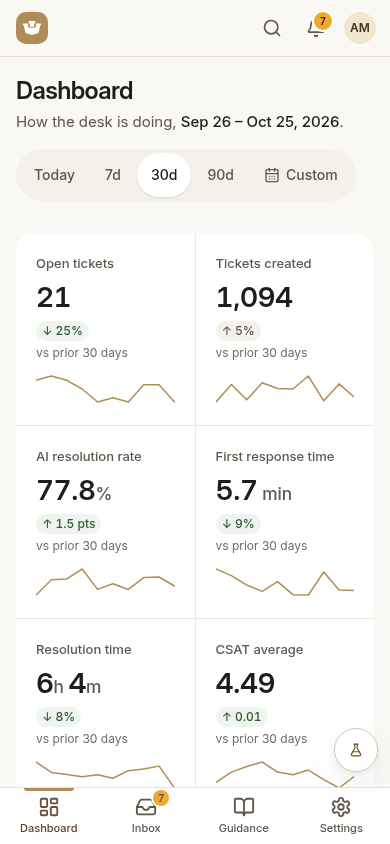
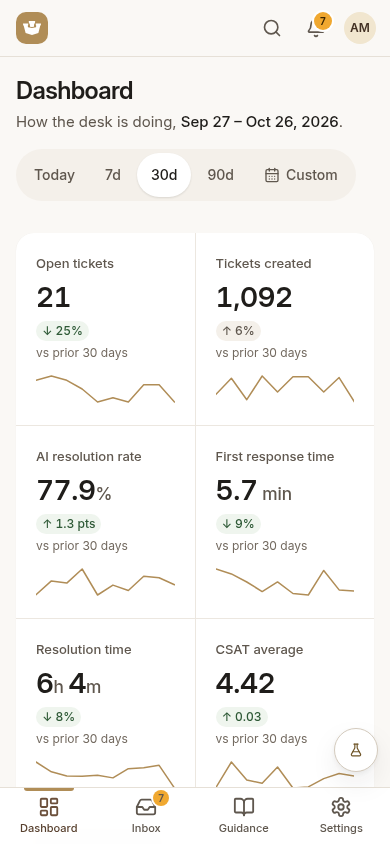
## Full-width pages: done
Every signed-in page now fills the screen and adjusts to its width. Before, everything stopped at 1440px and big monitors had empty space on both sides. I checked the 1920 and 2560 screenshots: the Dashboard and Settings Integrations go edge to edge with no empty margins. The builder's own checks cover 15 pages at seven widths from phone (390px) to 2560px, with no sideways scrolling and 0 console errors. Phone and accessibility checks still pass. I didn't run another independent test for this, since it only changes layout. As before, **ALL DATA AND CONNECTIONS ARE MOCKED.**

- **What stretches:** the 7 KPIs spread across the row, charts resize, and the 5 integration tiles fit on one row on wide screens. Guidance, the styleguide, the storefront demo and the theme editor also use the full width.
- **Kept narrow on purpose:** form fields, long article text, chat bubbles, the login and survey cards, pop-ups, the CSAT side panel and the "page not found" screen, so they stay easy to read.

Preview: https://goorin-inbox.preview.emergentagent.com (sign in with ava@goorin.com / goorin123).

**Still open from last time:** tell me which title font to keep from the demo-controls picker (Inter Display, Geist, Manrope or Plus Jakarta Sans), and I'll make it permanent and remove the picker.

**Next Action Items:**
- **Dashboard Layout Choice**: Let admins pick two or three panels per row on wide screens so the dashboard fits their monitor
[…]

diff --git a/frontend/src/components/storefront/StorePages.tsx b/frontend/src/components/storefront/StorePages.tsx
@@ -22,7 +22,7 @@ export function ProductPage({ products }: { products: StoreProduct[] }) {
   const [color, setColor] = useState(p.colors[0])
   const [size, setSize] = useState('M')
   return (
-    <div className="mx-auto max-w-[1280px] px-4 pt-8 sm:px-8" data-testid="store-page-product">
+    <div className="mx-auto max-w-[1600px] px-4 pt-8 sm:px-8 2xl:px-12" data-testid="store-page-product">
       <p className="text-[13px] text-[#6B5E50]">Home / Fedoras / <span className="text-[#2E2219]">{p.name}</span></p>
       <div className="mt-6 grid gap-10 lg:grid-cols-[1.2fr_1fr]">
         <div className="grid gap-3 sm:grid-cols-[1fr_96px]">
@@ -63,7 +63,7 @@ export function ProductPage({ products }: { products: StoreProduct[] }) {
         </div>
       </div>
       <h2 className="mt-20 font-store text-[24px] font-semibold text-[#2E2219]">Complete the look</h2>
-      <div className="mt-6 grid grid-cols-2 gap-5 md:grid-cols-4">{products.slice(1, 5).map((x) => <ProductTile key={x.id} p={x} />)}</div>
+      <div className="mt-6 grid gap-5 [grid-template-columns:repeat(auto-fill,minmax(160px,1fr))] sm:[grid-template-columns:repeat(auto-fill,minmax(200px,1fr))]">{products.slice(1, 5).map((x) => <ProductTile key={x.id} p={x} />)}</div>
     </div>
   )
 }
@@ -74,13 +74,13 @@ export function CollectionPage({ products }: { products: StoreProduct[] }) {
       <section className="relative h-[420px] overflow-hidden">
         <img src="/images/store/hero.jpg" alt="Inside the Goorin Bros. hat shop" className="absolute inset-0 h-full w-full object-cover" />
         <div className="absolute inset-0 bg-gradient-to-r from-[#2E2219]/80 via-[#2E2219]/40 to-transparent" />
-        <div className="relative mx-auto flex h-full max-w-[1280px] flex-col justify-center px-4 sm:px-8">
+        <div className="relative flex h-full w-full flex-col justify-center px-4 sm:px-8 2xl:px-12">
           <p className="text-[12px] uppercase tracking-[0.28em] text-[#E3CDA2]">The fall collection</p>
           <h1 className="mt-3 max-w-lg font-store text-[44px] font-semibold leading-[1.05] text-white">Felt, tweed and straw, made to be worn in.</h1>
           <a href="#grid" className="mt-6 inline-flex h-12 w-fit items-center rounded-md bg-[#FBF8F3] px-6 text-[14px] font-semibold text-[#2E2219]">Shop the collection</a>
         </div>
       </section>
-      <div id="grid" className="mx-auto max-w-[1280px] px-4 pt-12 sm:px-8">
+      <div id="grid" className="w-full px-4 pt-12 sm:px-8 2xl:px-12">
         <div className="flex flex-wrap items-center justify-between gap-4">
           <h2 className="font-store text-[28px] font-semibold text-[#2E2219]">All hats <span className="font-sans text-[15px] font-normal text-[#6B5E50]">({products.length})</span></h2>
           <div className="flex flex-wrap gap-2">
@@ -89,7 +89,7 @@ export function CollectionPage({ products }: { products: StoreProduct[] }) {
             ))}
           </div>
         </div>
-        <div className="mt-8 grid grid-cols-2 gap-x-5 gap-y-10 md:grid-cols-3 lg:grid-cols-4">{products.map((p) => <ProductTile key={p.id} p={p} />)}</div>
+        <div className="mt-8 grid gap-x-5 gap-y-10 [grid-template-columns:repeat(auto-fill,minmax(160px,1fr))] sm:[grid-template-columns:repeat(auto-fill,minmax(220px,1fr))]">{products.map((p) => <ProductTile key={p.id} p={p} />)}</div>
         <section className="mt-20 grid items-center gap-8 overflow-hidden rounded-[10px] bg-[#EFE7DB] md:grid-cols-2">
           <img src="/images/store/lifestyle.jpg" alt="A customer wearing a Hampton fedora on an autumn street" className="h-full max-h-[380px] w-full object-cover" />
           <div className="p-8">

diff --git a/frontend/src/components/storefront/StoreChrome.tsx b/frontend/src/components/storefront/StoreChrome.tsx
@@ -8,7 +8,7 @@ export function StoreHeader({ page, cartCount, onNavigate }: { page: StorePage; 
   return (
     <header className="sticky top-0 z-20 border-b border-[#E6DED2] bg-[#FBF8F3]/95 backdrop-blur" data-testid="store-header">
       <p className="bg-[#2E2219] px-4 py-2 text-center text-[12px] tracking-[0.12em] text-[#F1E6CF] uppercase">Free shipping over $100 · Hand-finished in San Francisco since 1895</p>
-      <div className="mx-auto flex h-[72px] max-w-[1280px] items-center gap-4 px-4 sm:px-8">
+      <div className="flex h-[72px] w-full items-center gap-4 px-4 sm:px-8 2xl:px-12">
         <button type="button" className="rounded-md p-2 text-[#2E2219] lg:hidden" aria-label="Open menu"><Menu className="h-5 w-5" /></button>
         <button type="button" onClick={() => onNavigate('collection')} className="flex flex-col leading-none" data-testid="store-logo">
           <GoorinWordmark width={150} alt="Goorin Bros." />
@@ -41,7 +41,7 @@ export function StoreFooter() {
   ] as const
   return (
     <footer className="mt-24 bg-[#2E2219] text-[#E9DFD1]" data-testid="store-footer">
-      <div className="mx-auto grid max-w-[1280px] gap-10 px-4 py-16 sm:px-8 md:grid-cols-[1.4fr_repeat(3,1fr)]">
+      <div className="grid w-full gap-10 px-4 py-16 sm:px-8 2xl:px-12 md:grid-cols-[1.4fr_repeat(3,1fr)]">
         <div>
           <p className="font-store text-[24px] font-semibold text-white">Goorin Bros.</p>
           <p className="mt-3 max-w-xs text-[14px] leading-relaxed text-[#CBBBA6]">Four generations of hat makers. Every piece is blocked, trimmed and finished by hand.</p>

diff --git a/frontend/src/components/settings/SaveBar.tsx b/frontend/src/components/settings/SaveBar.tsx
@@ -20,12 +20,12 @@ export function SaveBar({ note, children }: { note?: ReactNode; children: ReactN
 // Label + help on the left (~1/3), controls on the right (~2/3); stacks below 1024px.
 export function FormSection({ title, description, children, testId }: { title: string; description?: ReactNode; children: ReactNode; testId?: string }) {
   return (
-    <section className="grid gap-4 py-8 first:pt-2 last:pb-2 lg:grid-cols-[minmax(0,1fr)_minmax(0,2fr)] lg:gap-10" data-testid={testId}>
+    <section className="grid gap-4 py-8 first:pt-2 last:pb-2 lg:grid-cols-[minmax(0,1fr)_minmax(0,2fr)] lg:gap-10 2xl:grid-cols-[minmax(240px,360px)_minmax(0,1fr)]" data-testid={testId}>
       <div>
         <h2 className="text-[15px] font-semibold text-ink">{title}</h2>
-        {description && <p className="mt-1 text-sm leading-relaxed text-ink-muted">{description}</p>}
+        {description && <p className="mt-1 max-w-[60ch] text-sm leading-relaxed text-ink-muted">{description}</p>}
       </div>
-      <div className="min-w-0 space-y-4">{children}</div>
+      <div className="min-w-0 max-w-[880px] space-y-4">{children}</div>
     </section>
   )
 }

diff --git a/frontend/src/pages/StyleguidePage.tsx b/frontend/src/pages/StyleguidePage.tsx
@@ -69,13 +69,13 @@ export default function StyleguidePage() {
   return (
     <div className="min-h-screen bg-background" data-testid="styleguide-page">
       <header className="sticky top-0 z-30 border-b border-border bg-background/85 backdrop-blur-md">
-        <div className="mx-auto flex h-16 max-w-6xl items-center gap-4 px-4 md:px-8">
+        <div className="flex h-16 w-full items-center gap-4 px-4 md:px-8 2xl:px-12">
           <Wordmark />
           <span className="hidden text-sm text-ink-muted sm:inline">Styleguide · current design</span>
           <Link to="/login" className={buttonVariants({ variant: 'outline', size: 'sm', className: 'ml-auto' })}>Open the desk</Link>
         </div>
       </header>
-      <main className="mx-auto grid max-w-6xl gap-10 px-4 pb-24 pt-10 md:px-8 lg:grid-cols-[160px_minmax(0,1fr)]">
+      <main className="grid w-full gap-10 px-4 pb-24 pt-10 md:px-8 2xl:px-12 lg:grid-cols-[160px_minmax(0,1fr)]">
         <SgIndex />
         <div className="min-w-0 space-y-14">
           <div>

diff --git a/frontend/src/components/guidance/ArticleEditor.tsx b/frontend/src/components/guidance/ArticleEditor.tsx
@@ -13,7 +13,7 @@ import { Switch } from '@/components/ui/overlay'
 import { Card } from '@/components/ui/card'
 import { cn } from '@/lib/utils'
 
-export const markdownStyles = '[&_a]:text-tobacco-700 [&_a]:underline [&_h1]:text-xl [&_h1]:font-semibold [&_h2]:mt-4 [&_h2]:text-lg [&_h2]:font-semibold [&_h3]:mt-3 [&_h3]:font-semibold [&_li]:my-0.5 [&_ol]:list-decimal [&_ol]:pl-5 [&_p]:my-2 [&_strong]:font-semibold [&_table]:my-2 [&_td]:border [&_td]:border-border [&_td]:px-2 [&_th]:border [&_th]:border-border [&_th]:px-2 [&_ul]:list-disc [&_ul]:pl-5'
+export const markdownStyles = '[&>*]:max-w-[75ch] [&_a]:text-tobacco-700 [&_a]:underline [&_h1]:text-xl [&_h1]:font-semibold [&_h2]:mt-4 [&_h2]:text-lg [&_h2]:font-semibold [&_h3]:mt-3 [&_h3]:font-semibold [&_li]:my-0.5 [&_ol]:list-decimal [&_ol]:pl-5 [&_p]:my-2 [&_strong]:font-semibold [&_table]:my-2 [&_td]:border [&_td]:border-border [&_td]:px-2 [&_th]:border [&_th]:border-border [&_th]:px-2 [&_ul]:list-disc [&_ul]:pl-5'
 
 interface Props {
   article: GuidanceArticle | null

diff --git a/frontend/src/components/shell/AppShell.tsx b/frontend/src/components/shell/AppShell.tsx
@@ -31,7 +31,7 @@ export function AppShell({ children }: { children?: ReactNode }) {
           <main
             id="main"
             tabIndex={-1}
-            className={cn('w-full focus:outline-none', fullBleed ? 'h-[calc(100vh-4rem)] flex-none overflow-hidden max-sm:h-[calc(100dvh-3.5rem-3.5rem-env(safe-area-inset-bottom)-env(safe-area-inset-top))]' : 'mx-auto max-w-[1440px] flex-1 px-4 pb-24 pt-8 md:px-8 max-sm:pb-[calc(6rem+env(safe-area-inset-bottom))] max-sm:pt-5')}
+            className={cn('w-full focus:outline-none', fullBleed ? 'h-[calc(100vh-4rem)] flex-none overflow-hidden max-sm:h-[calc(100dvh-3.5rem-3.5rem-env(safe-area-inset-bottom)-env(safe-area-inset-top))]' : 'min-w-0 flex-1 px-4 pb-24 pt-8 md:px-8 2xl:px-12 max-sm:pb-[calc(6rem+env(safe-area-inset-bottom))] max-sm:pt-5')}
           >
             {children ?? <Outlet />}
           </main>

diff --git a/frontend/src/components/widgetSettings/WidgetSettingsTab.tsx b/frontend/src/components/widgetSettings/WidgetSettingsTab.tsx
@@ -97,7 +97,7 @@ function Loaded({ saved: initial, theme, view }: { saved: WidgetSettings; theme:
     )
 
   return (
-    <div className="grid gap-6 pb-24 lg:grid-cols-[minmax(0,1fr)_minmax(0,500px)]" data-testid="widget-settings">
+    <div className="grid gap-6 pb-24 lg:grid-cols-[minmax(0,1fr)_minmax(0,500px)] 2xl:grid-cols-[minmax(0,1fr)_minmax(0,560px)] min-[1920px]:grid-cols-[minmax(0,1fr)_minmax(0,640px)]" data-testid="widget-settings">
       <div className="min-w-0 space-y-3" data-testid="widget-settings-form">
         {SECTIONS.map(([id, title, desc, Icon]) => (
           <Section key={id} id={id} title={title} description={desc} Icon={Icon} summary={sectionSummary(id, draft, theme)} open={open.has(id)} onToggle={() => toggle(id)}>

diff --git a/frontend/src/pages/SettingsPage.tsx b/frontend/src/pages/SettingsPage.tsx
@@ -76,7 +76,7 @@ export default function SettingsPage() {
   if (!current) return <Navigate to="/settings/integrations" replace />
 
   return (
-    <div className="space-y-8" data-testid="settings-page">
+    <div className="space-y-8 [&_input:not([type=checkbox]):not([type=radio]):not([type=range]):not([type=color])]:max-w-[480px] [&_button[role=combobox]]:max-w-[480px]" data-testid="settings-page">
       <div className="space-y-6">
         <PageHeader title="Settings" description={<span data-testid="settings-tab-description">{current.description}</span>} />
         <TabBar tab={current.id} />

diff --git a/frontend/src/pages/WidgetDemoPage.tsx b/frontend/src/pages/WidgetDemoPage.tsx
@@ -65,7 +65,7 @@ export default function WidgetDemoPage() {
       <StoreHeader page={page} cartCount={2} onNavigate={goto} />
       <main>
         {products.loading && (
-          <div className="mx-auto grid max-w-[1280px] gap-10 px-8 pt-10 lg:grid-cols-2">
+          <div className="grid w-full gap-10 px-8 pt-10 lg:grid-cols-2">
             <Skeleton className="aspect-square w-full" />
             <div className="space-y-4"><Skeleton className="h-10 w-2/3" /><Skeleton className="h-6 w-1/4" /><Skeleton className="h-24 w-full" /></div>
           </div>

diff --git a/frontend/src/components/settings/IntegrationsTab.tsx b/frontend/src/components/settings/IntegrationsTab.tsx
@@ -102,7 +102,7 @@ function summary(list: IntegrationStatus[]) {
   return `${n('connected')} connected · ${n('error')} error${n('error') === 1 ? '' : 's'} · ${n('not_configured')} not configured`
 }
 
-const GRID = 'grid gap-4 sm:grid-cols-2 lg:grid-cols-3'
+const GRID = 'grid gap-4 [grid-template-columns:repeat(auto-fill,minmax(min(100%,280px),1fr))]'
 
 export function IntegrationsTab() {
   const { data, loading, error, reload } = useApi(() => settingsApi.listIntegrations(), [])

diff --git a/memory/product/phase8/requirement.md b/memory/product/phase8/requirement.md
@@ -117,3 +117,11 @@ Extends REQ-138..REQ-143 and supersedes REQ-151 (the hidden "Details" toggle at 
 - REQ-494 [state] While the customer has no Loop returns, the system shall show "No returns with Loop".
 - REQ-495 [always] The system shall show the Loop section in the phone/tablet Details sheet, and show the Loop mark with the return count in the collapsed rail.
 - REQ-496 [always] The system shall add the mock LoopReturn type {id, customerId, orderNumber, state, outcome, returnTotal, refund, exchangeTotal, storeCredit, items[], labelStatus, createdAt, adminUrl} via /src/api (getCustomerReturns), seeded for several customers and consistent with orders (e.g. Margaret's partially refunded #GB19790).
+
+## Full-width, fluid layouts (user request: "make sure all pages are full width and auto adjust")
+- REQ-497 [always] The system shall render every signed-in page (Dashboard, Inbox, Guidance, Settings incl. Integrations detail/Shopify sub-tabs, 404/placeholders) at the full available width beside the sidebar, with no centered max-width cap (the AppShell max-w-[1440px] is removed). Gutters stay fluid (16px phone → 32px desktop → up to ~48px on very wide screens).
+- REQ-498 [always] The system shall let grids auto-adjust to width: the KPI strip, dashboard panel rows, chart widths (ResponsiveContainer), the integration tile grid (auto-fill, min ~280px), guidance/user lists, and styleguide sections gain columns or stretch on wide screens and collapse on narrow ones.
+- REQ-499 [always] The system shall keep text-heavy controls readable on wide screens: form inputs, the article/markdown body and the message bubbles keep sensible max widths inside full-width sections (e.g. inputs ≤480px, prose ≤75ch).
+- REQ-500 [always] The system shall render /styleguide and the /widget-demo storefront (header, hero, grids, footer) full width and fluid (product grid auto-fill). /widget-demo/theme-editor fills the viewport.
+- REQ-501 [always] The system shall keep the login card, survey card, modals/sheets and the 404 message centered at a narrow width on a full-width background (by design).
+- REQ-502 [always] The system shall have no horizontal overflow and no awkward stretching at 390, 768, 1024, 1280, 1440, 1920 and 2560px widths.
